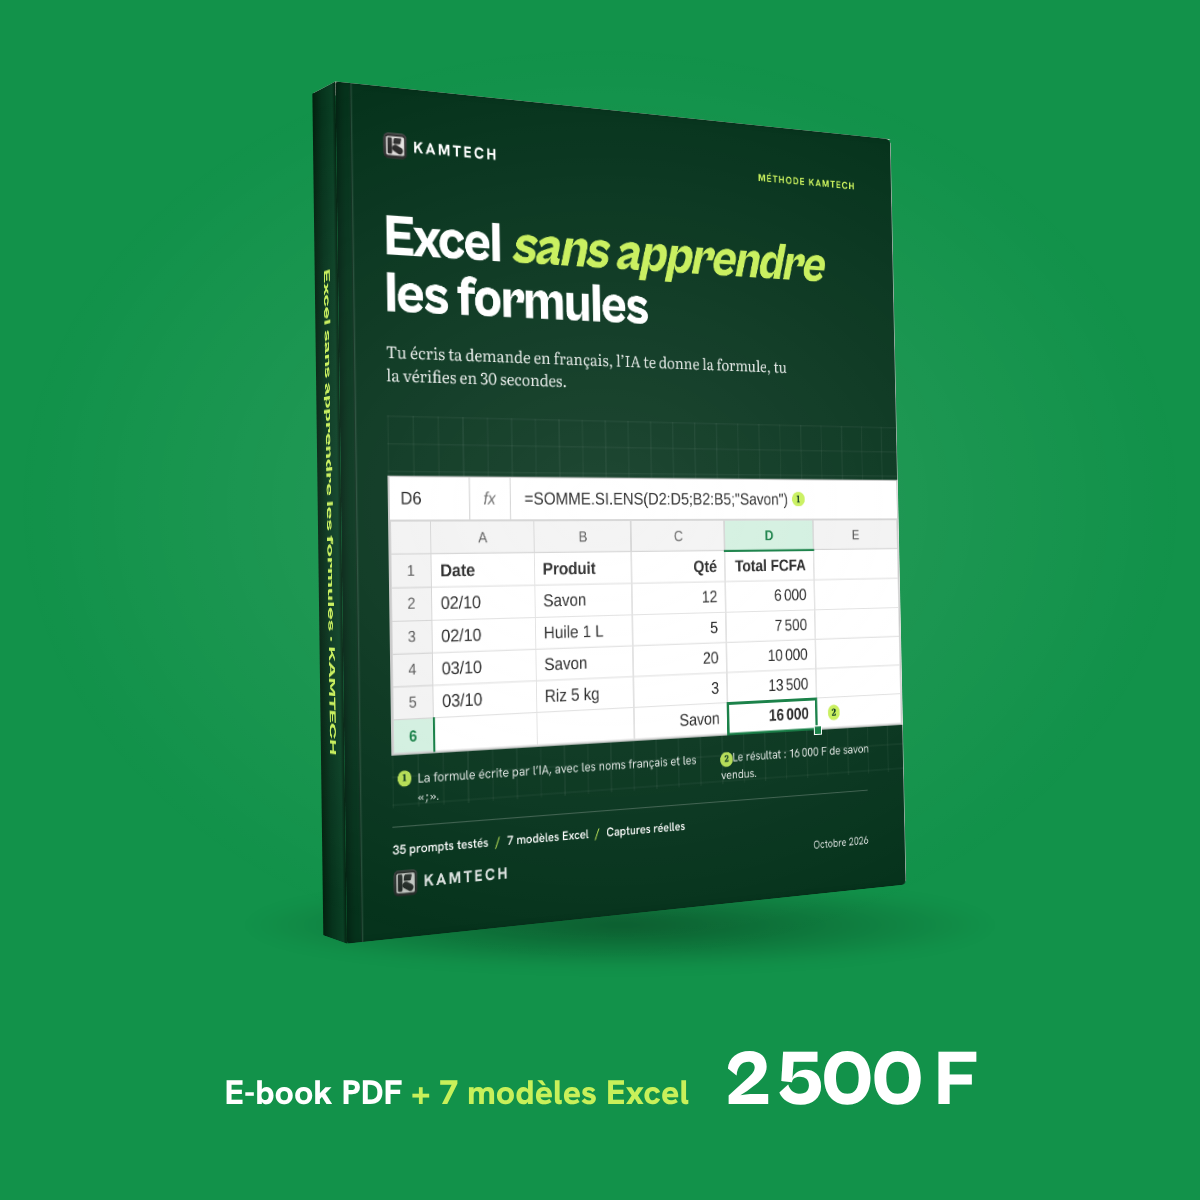
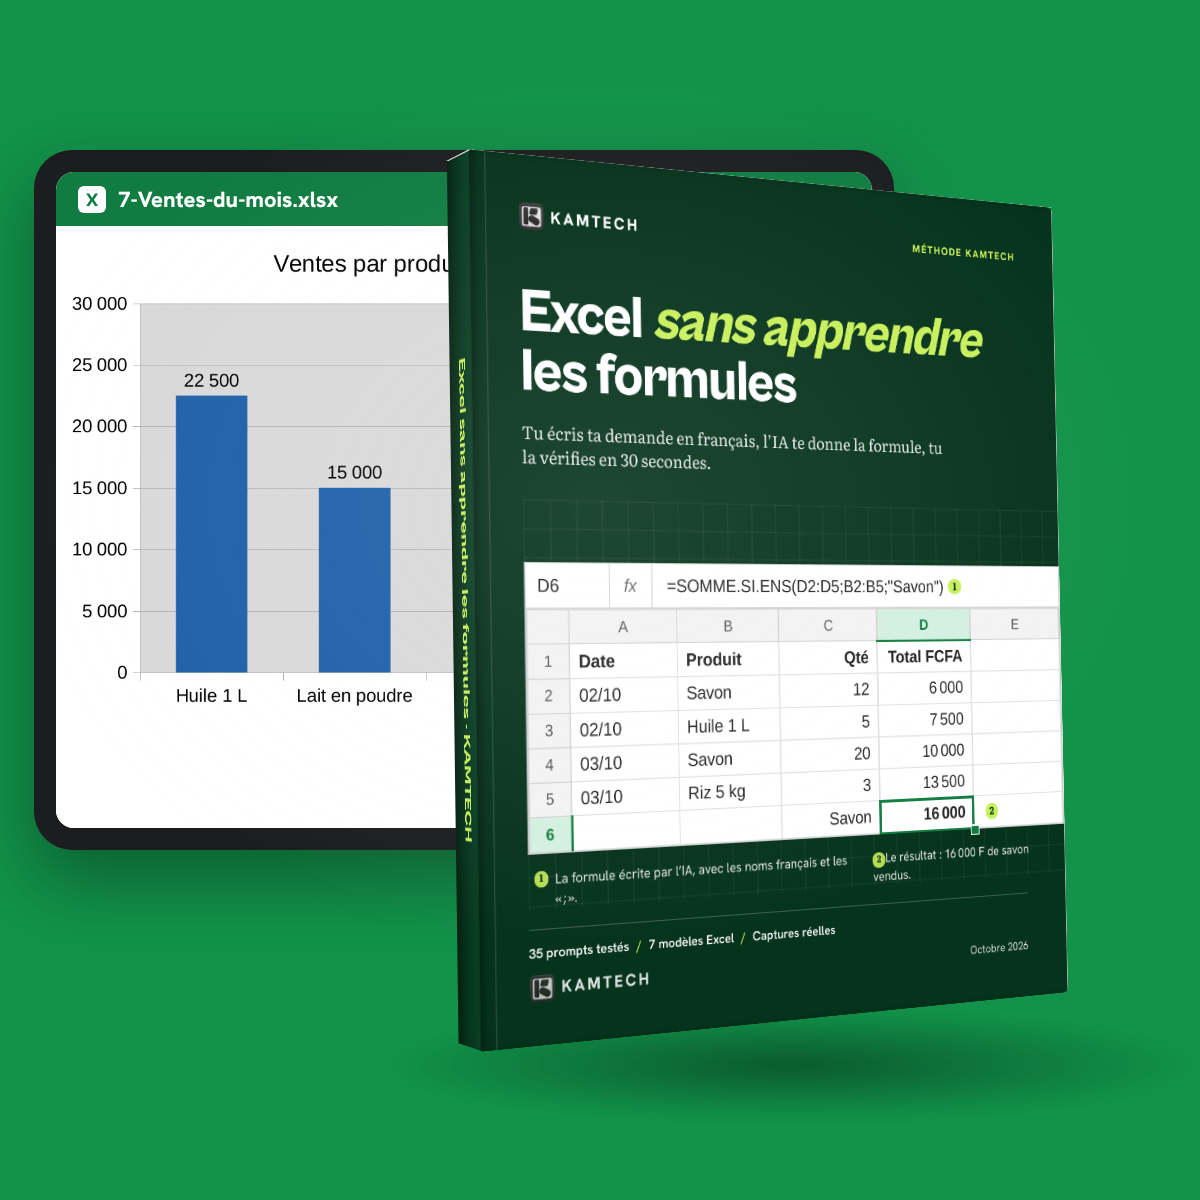
Vignette : mockup pur (livre en volume + tablette avec le vrai graphique du modèle), cadre rempli
Claude-Session: https://claude.ai/code/session_01T8L22svZaEaGYSwza4q3Yc

diff --git a/produits/ebooks/excel/boutique/visuels/src/vignette-livre.html b/produits/ebooks/excel/boutique/visuels/src/vignette-livre.html
@@ -2,26 +2,35 @@
 /* Livre imprimé en volume : la vraie couverture du PDF, un dos, la tranche des pages, une ombre portée au sol. */
 body{width:1200px;height:1200px;position:relative;overflow:hidden;background:#12924A}
 body::after{content:"";position:absolute;inset:0;background:radial-gradient(ellipse 70% 55% at 50% 42%,rgba(255,255,255,.10),transparent 70%);pointer-events:none}
-.scene{position:absolute;left:50%;top:110px;width:640px;height:800px;margin-left:-280px;perspective:2200px}
+.scene{position:absolute;left:452px;top:178px;width:672px;height:840px;perspective:2400px}
 .livre{position:absolute;inset:0;transform-style:preserve-3d;transform:rotateY(30deg) rotateX(2deg)}
 .face{position:absolute}
-.avant{width:640px;height:800px;background:url(img/n1-001.png) center/cover;border-radius:2px 6px 6px 2px;
+.avant{width:672px;height:840px;background:url(img/n1-001.png) center/cover;border-radius:2px 6px 6px 2px;
   box-shadow:inset 6px 0 10px -4px rgba(0,0,0,.45),inset -1px 0 0 rgba(255,255,255,.08)}
 /* charnière : léger pli près du dos */
 .avant::before{content:"";position:absolute;left:14px;top:0;bottom:0;width:3px;background:linear-gradient(90deg,rgba(0,0,0,.35),rgba(255,255,255,.12),transparent)}
-.dos{width:58px;height:800px;left:-58px;transform-origin:right;transform:rotateY(-90deg);
+.dos{width:60px;height:840px;left:-58px;transform-origin:right;transform:rotateY(-90deg);
   background:linear-gradient(90deg,#03200f,#06331C 40%,#0a3f24 85%,#03200f);
   display:flex;align-items:center;justify-content:center}
 .dos span{transform:rotate(90deg);white-space:nowrap;font:800 22px 'Cabinet Grotesk';color:#C8F05A;letter-spacing:.01em}
-.tranche{width:56px;height:792px;top:4px;right:0;transform-origin:right;transform:rotateY(-90deg);
+.tranche{width:58px;height:832px;top:4px;right:0;transform-origin:right;transform:rotateY(-90deg);
   background:repeating-linear-gradient(90deg,#f4f1e8 0 2px,#e2ddd0 2px 3px)}
-.haut{width:640px;height:56px;top:0;transform-origin:top;transform:rotateX(-90deg);background:repeating-linear-gradient(0deg,#f4f1e8 0 2px,#e2ddd0 2px 3px)}
-.ombre{position:absolute;left:50%;top:880px;width:760px;height:90px;margin-left:-360px;border-radius:50%;
+.haut{width:672px;height:58px;top:0;transform-origin:top;transform:rotateX(-90deg);background:repeating-linear-gradient(0deg,#f4f1e8 0 2px,#e2ddd0 2px 3px)}
+.ombre{position:absolute;left:380px;top:1010px;width:820px;height:110px;border-radius:50%;
   background:radial-gradient(ellipse at center,rgba(0,0,0,.38),rgba(0,0,0,0) 70%);filter:blur(6px)}
-.bas{position:absolute;left:0;right:0;bottom:70px;display:flex;justify-content:center;align-items:baseline;gap:34px;color:#fff;font:700 34px 'Hanken Grotesk'}
+.bas{position:absolute;left:70px;bottom:62px;display:flex;align-items:baseline;gap:26px;color:#fff;font:700 32px 'Hanken Grotesk'}
+.tablette{position:absolute;left:34px;top:150px;width:860px;height:700px;border-radius:38px;background:#1b1d1f;padding:22px;box-shadow:0 30px 70px rgba(0,0,0,.35)}
+.tablette .ecran img{object-fit:contain;background:#fff}
+.tablette .ecran{width:100%;height:100%;border-radius:18px;background:#fff;overflow:hidden;display:flex;flex-direction:column}
+.tablette .barre{height:54px;flex:none;background:#107C41;color:#fff;display:flex;align-items:center;padding:0 22px;font:700 22px 'Hanken Grotesk';gap:12px}
+.tablette .barre i{font-style:normal;background:#fff;color:#107C41;border-radius:6px;padding:2px 8px;font-size:18px}
+.tablette img{width:100%;height:100%;object-fit:cover;object-position:top;display:block}
+.etiquette{position:absolute;left:70px;top:70px;color:#fff;font:800 40px/1.1 'Cabinet Grotesk';letter-spacing:-.02em}
+.etiquette em{font-style:normal;color:#C8F05A}
 .bas b{font:800 78px 'Cabinet Grotesk';letter-spacing:-.03em;color:#fff}
 .bas i{font-style:normal;color:#C8F05A}
 </style></head><body>
+<div class="tablette"><div class="ecran"><div class="barre"><i>X</i>7-Ventes-du-mois.xlsx</div><img src="img/c4-graph.png" alt=""></div></div>
 <div class="ombre"></div>
 <div class="scene"><div class="livre">
   <div class="face haut"></div>
@@ -29,5 +38,4 @@ body::after{content:"";position:absolute;inset:0;background:radial-gradient(elli
   <div class="face dos"><span>Excel sans apprendre les formules · KAMTECH</span></div>
   <div class="face avant"></div>
 </div></div>
-<div class="bas"><span>E-book PDF <i>+ 7 modèles Excel</i></span><b>2{f}500&nbsp;F</b></div>
 </body></html>
